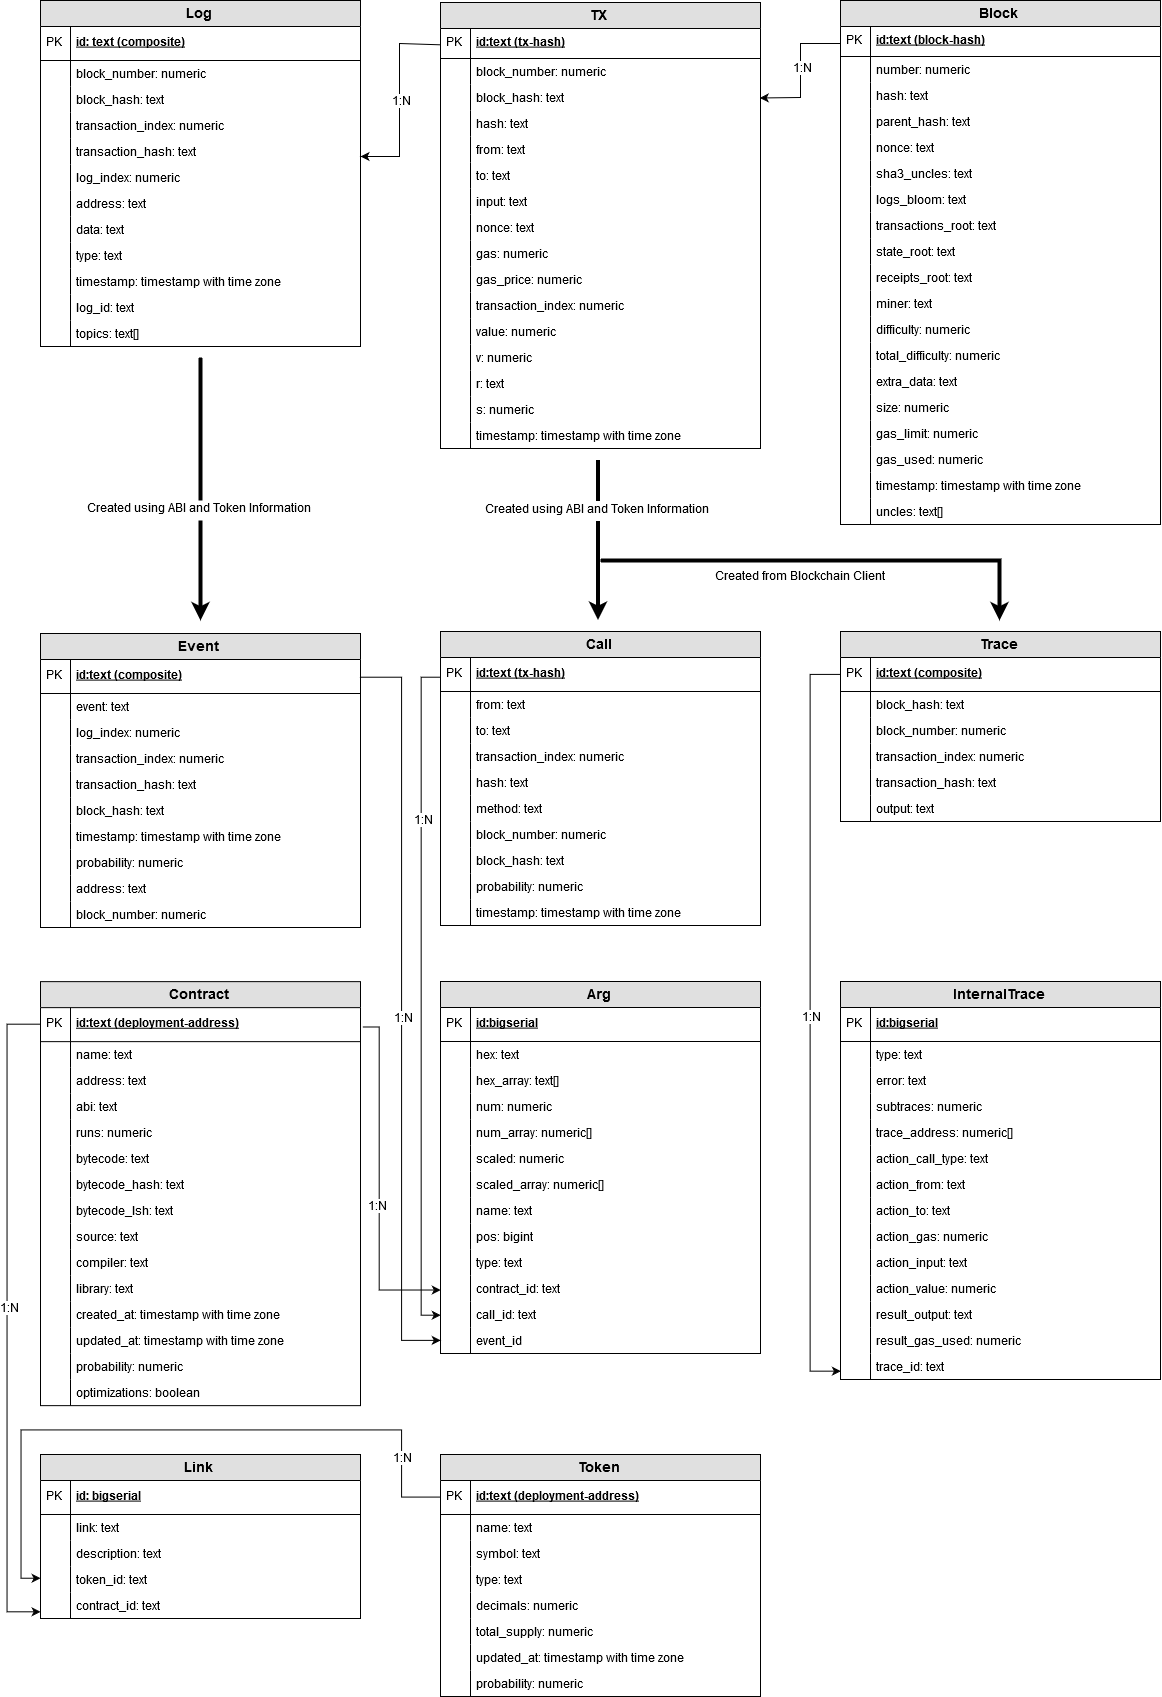
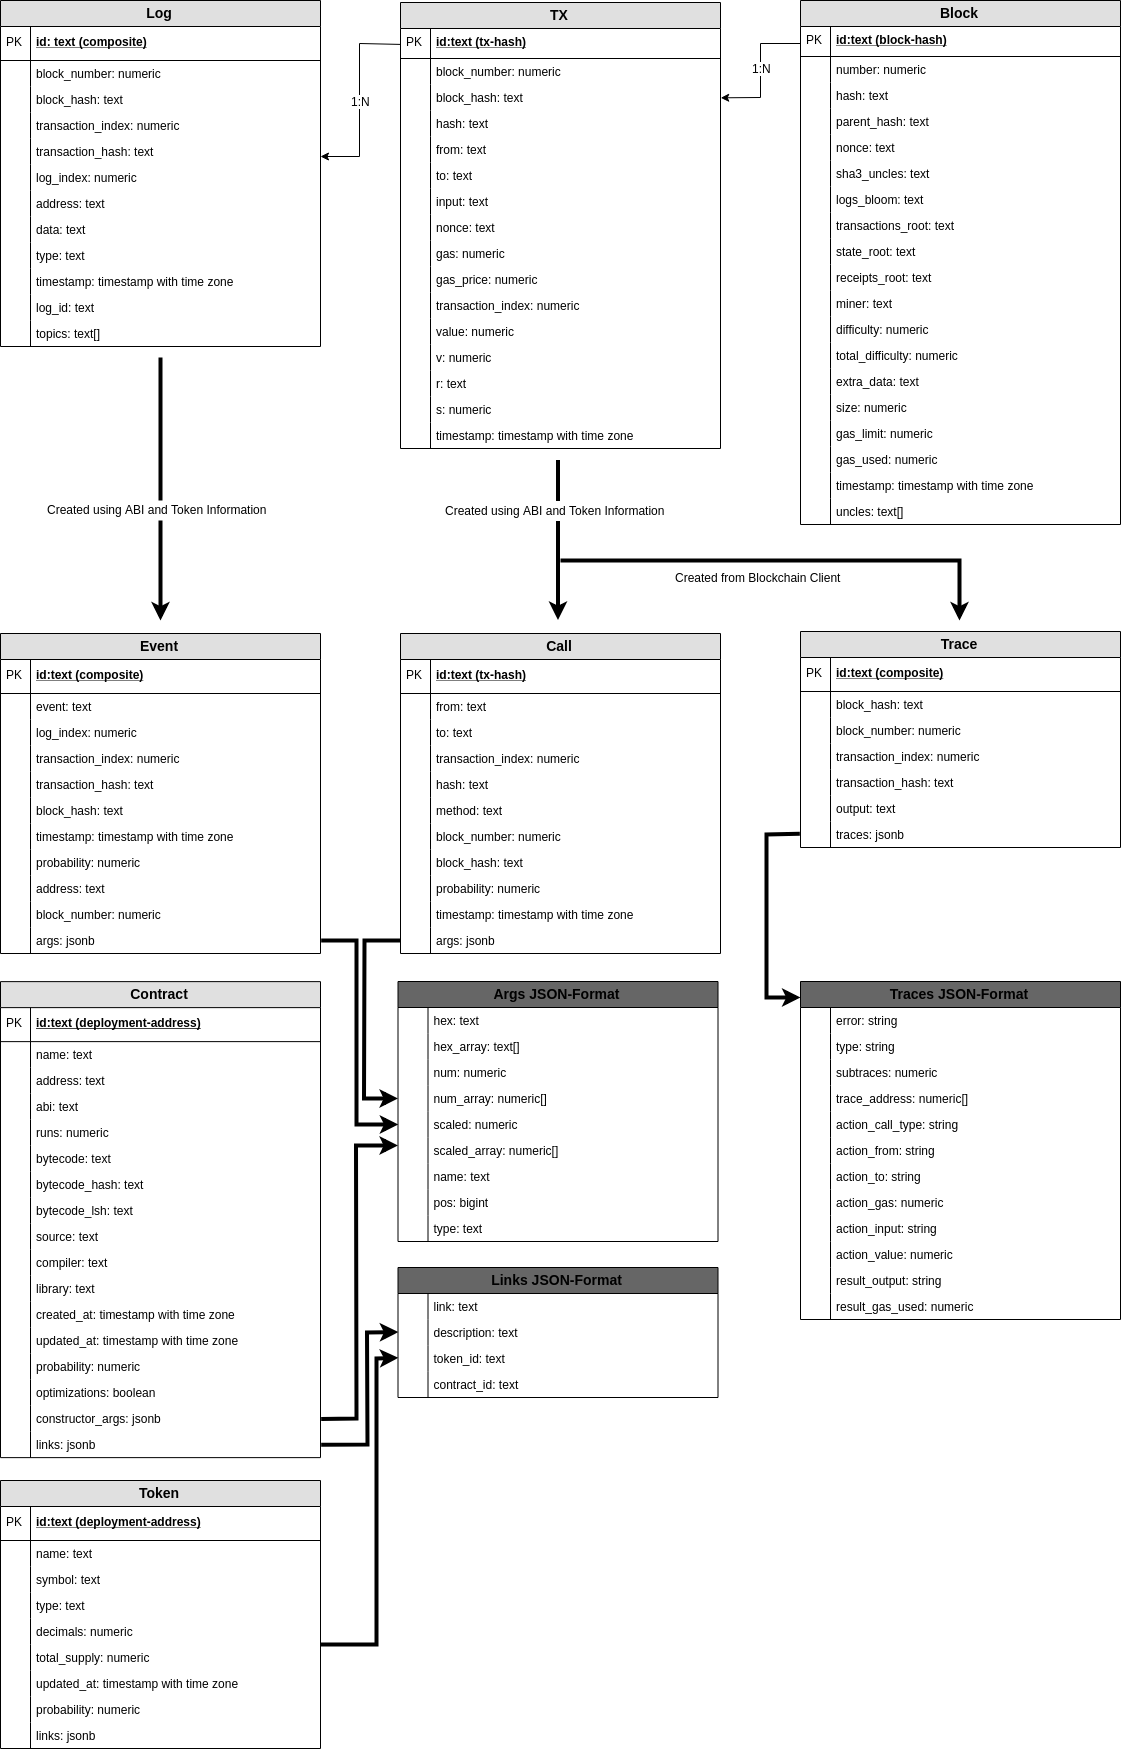
EE-449: SQL-doc update
- added cross reference extension for sphinx
- changed JSONB model

diff --git a/conf.py b/conf.py
@@ -38,8 +38,7 @@ release = ''
 # Add any Sphinx extension module names here, as strings. They can be
 # extensions coming with Sphinx (named 'sphinx.ext.*') or your custom
 # ones.
-extensions = [
-]
+extensions = ['sphinx.ext.intersphinx']
 
 # Add any paths that contain templates here, relative to this directory.
 templates_path = ['_templates']

diff --git a/sql/tutorials/sql.rst b/sql/tutorials/sql.rst
@@ -14,6 +14,8 @@ What you must know already
 
 This tutorial is written for programmers, who have some experience with SQL. You should also have visited the :doc:`authorization <../authorization/index>`
 page and setup our connection to the database.
+Remember that the subentities are stored using the Postgresql-Type **JSONB**.
+For more information on that, please take a look at the :ref:`er-model <sub-entities-jsonb>`.
 
 Basic eth.events SQL queries
 ----------------------------
@@ -41,35 +43,21 @@ This will show the whole block. But you can use a shorter form:
 
   SELECT max(number) FROM block 
 
-Find events and their arguments for a given block
+Find events for a given block
 ~~~~~~~~~~~~~~~~~~~~~~~~~~~~~~~~~~~~~~~~~~~~~~~~~
 
 .. code:: SQL
 
-  SELECT * FROM event 
-    JOIN arg 
-      ON event.id = arg.event_id 
+  SELECT * FROM event
   WHERE event.block_number = 7075271
 
-Find calls and their arguments for a transaction hash
+Find calls for a transaction hash
 ~~~~~~~~~~~~~~~~~~~~~~~~~~~~~~~~~~~~~~~~~~~~~~~~~~~~~
 
 .. code:: SQL
 
   SELECT * FROM call
-    JOIN arg 
-      ON call.id = arg.call_id 
[1 lines of base64/hex data omitted]
-
-Find traces for a transaction hash
-~~~~~~~~~~~~~~~~~~~~~~~~~~~~~~~~~~
-
-.. code:: SQL
-
-  SELECT * FROM trace
-    JOIN internaltrace AS traces
-      ON trace.id = traces.trace_id 
[1 lines of base64/hex data omitted]
 
 Find transactions for a given contract
 ~~~~~~~~~~~~~~~~~~~~~~~~~~~~~~~~~~~~~~
@@ -78,7 +66,20 @@ For our example we use the address of the TenXPay token contract:
 .. code:: SQL
 
   SELECT * FROM tx
-  WHERE tx."to" = LOWER('0xB97048628DB6B661D4C2aA833e95Dbe1A905B280') 
+  WHERE tx.to = '0xB97048628DB6B661D4C2aA833e95Dbe1A905B280'
+  LIMIT 100
+
+Find specific events for a given contract
+~~~~~~~~~~~~~~~~~~~~~~~~~~~~~~~~~~~~~~~~~
+For our example we use the address of the TenXPay token contract again, however we
+would like to know the values of transfers greater than *1ETH*:
+
+.. code:: SQL
+
+  SELECT arg->'scaled', arg ->'num'
+  FROM "event",jsonb_array_elements(args) arg 
+  WHERE event = 'Transfer' AND address = '0xB97048628DB6B661D4C2aA833e95Dbe1A905B280'
+  AND (arg->'num')::numeric > 1000000000000000000
   LIMIT 100
 
 Where to go from here

diff --git a/sql/schema/index.rst b/sql/schema/index.rst
@@ -14,11 +14,10 @@ To enrich the data, we use the tables *Contract* and *Token* to match the hashes
 As you can see, we are only able to make the data human-readable if we have the contract ABI. 
 If you are interested in monitoring your own (non-standard) contract - `contact us <mailto:contact@eth.events>`_ and we can integrate your ABI 
 so that you can interpret the data for your business case more easily.
-Most data in *Contract*, *Token* and *Link* is pulled from Etherscan at the moment. 
+Most data in *Contract* and *Token* is pulled from Etherscan at the moment. 
 Particularly regarding contract ABIs we have been in talks about establishing an independent registry.
 If you want to help or can provide funding to support this mission to help the whole Ethereum ecosystem - please `contact us <mailto:contact@eth.events>`_.
-The Arg table is used to store the arguments of either the *Contract*, the *Call* or the *Event*. 
-So for any row in *Arg*, only one of the columns **contract_id**, **call_id**, **event_id** will contain a value. 
+The arguments of either the *Contract*, the *Call* or the *Event* are encoded as a JSON array in their enclosing tables.
 In case of referencing a contract that would mean the constructor arguments at the time of creation.
 
 ID fields (primary keys)
@@ -39,6 +38,18 @@ Currently it is set to 1 for all data that we can retrieve from the blockchain o
 In the near future we plan to compare new contracts on the blockchain against existing ones in order to identify the type 
 (e.g. ERC-20 token, Augur prediction markets, etc.) and enable automatic decoding of events as much as possible.
 These probabilities are also reflected in the *Call* and *Event* table.
+
+.. _sub-entities-jsonb:
+
+Sub-Entities and their JSON representation
+^^^^^^^^^^^^^^^^^^^^^^^^^^^^^^^^^^^^^^^^^^
+The sub entities - like arguments, links and traces - are encoded in their enclosing tables using the official JSON SQL-Type. Here are some resources to get familiar
+with that data type:
+
+- `JSON Datatype <https://www.postgresql.org/docs/current/datatype-json.html>`__
+- `JSON Functions <https://www.postgresql.org/docs/current/functions-json.html>`__
+
+All subentities are stored using the Postgresql-Type **JSONB**.
 
 Full Data model for the Ethereum SQL index
 ^^^^^^^^^^^^^^^^^^^^^^^^^^^^^^^^^^^^^^^^^^
